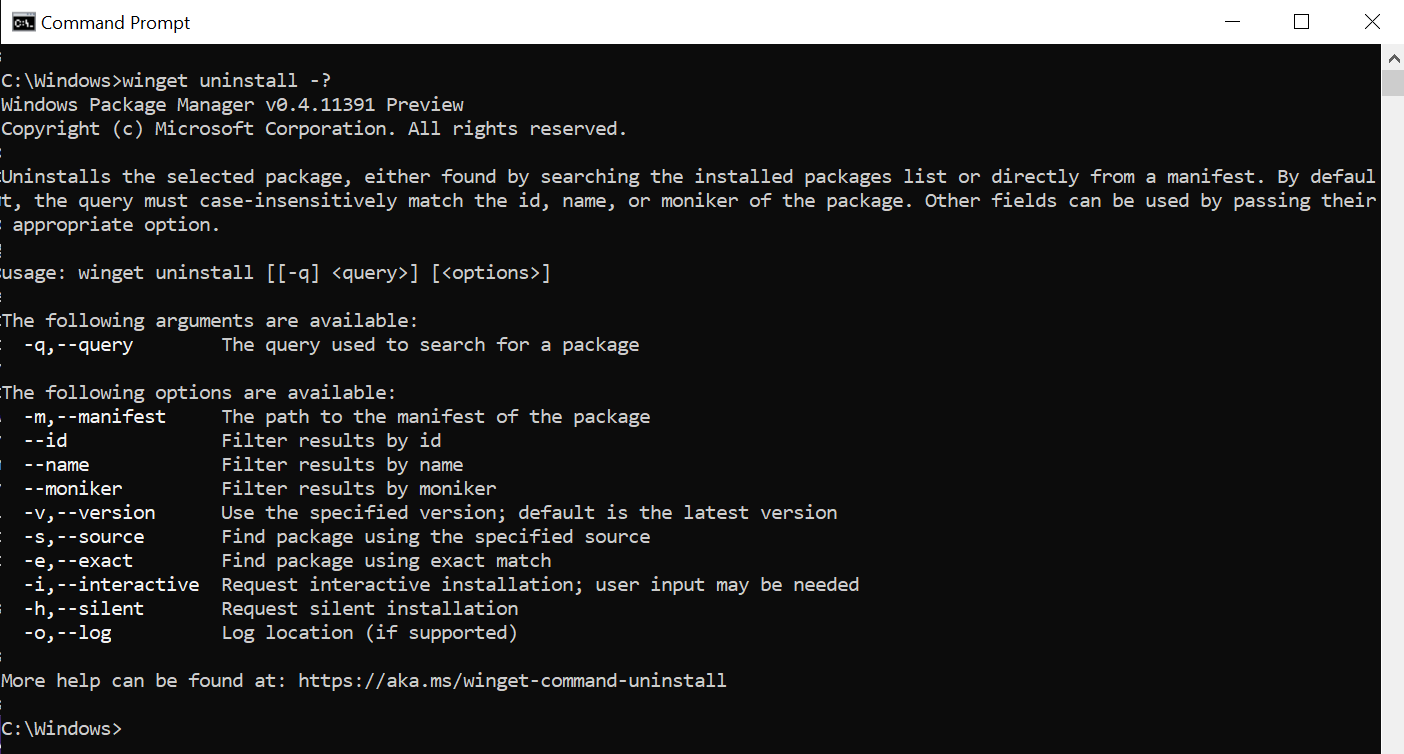
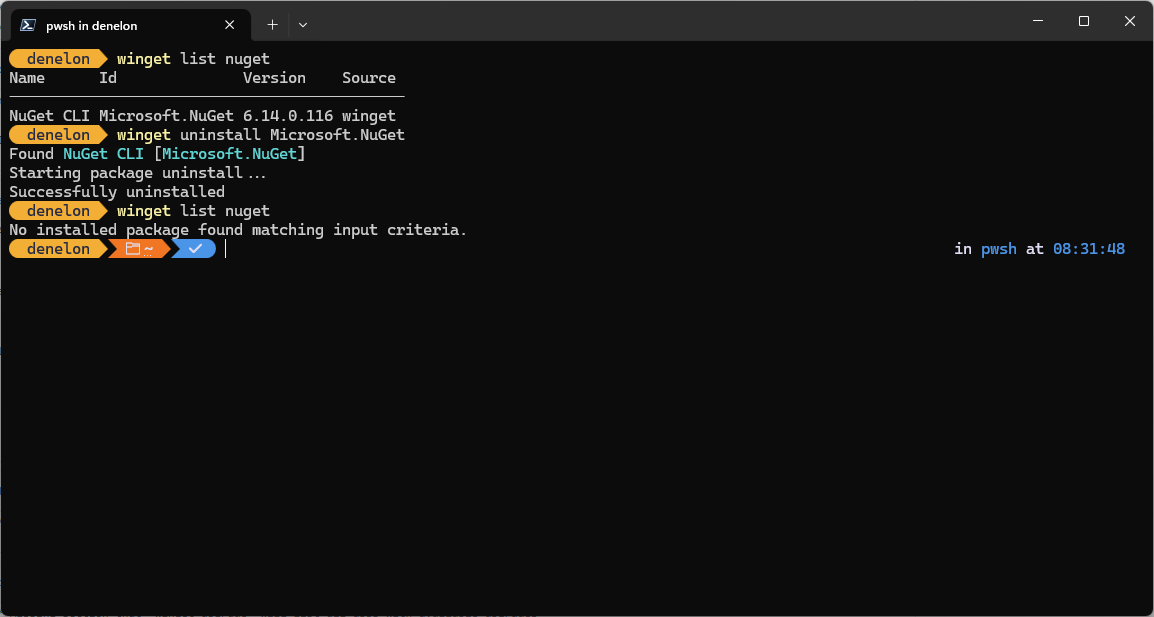
Update Uninstall (#5556)
* Update Uninstall

* Update screenshot format and minor editorial

---------

Changed region(s): [[0.0, 0.0, 1.0, 1.0], [0.0, 0.893, 0.5303, 0.9238]]

diff --git a/hub/package-manager/winget/uninstall.md b/hub/package-manager/winget/uninstall.md
@@ -1,16 +1,15 @@
 ---
 title: uninstall Command
 description: uninstalls the specified application.
-ms.date: 07/11/2024
+ms.date: 07/07/2025
 ms.topic: overview
-ms.localizationpriority: medium
 ---
 
 # uninstall command (winget)
 
-The **uninstall** command of the [winget](index.md) tool uninstalls the specified application.
+The **uninstall** command of [WinGet](index.md) uninstalls the specified application.
 
-The **uninstall** command requires that you specify the exact string to uninstall. If there is any ambiguity, you will be prompted to further filter the **uninstall** command to an exact application.
+The **uninstall** command requires that you specify the exact application name to uninstall. If there is any ambiguity, you will be prompted to further filter the **uninstall** command to an exact application.
 
 ## Aliases
 
@@ -23,10 +22,10 @@ The following aliases are available for this command:
 
 `winget uninstall [[-q] <query>] [<options>]`
 
-![Image of uninstall command usage](./images/uninstall.png)
+:::image type="content" source="./images/uninstall.png" alt-text="Screenshot of entering the winget uninstall command in a command line of Windows Terminal." lightbox="./images/uninstall.png":::
 
 > [!NOTE]
-> When using WinGet to uninstall a package, you may encounter a Microsoft Store agreement. This is due to the way in which WinGet queries package manifest sources. If you prefer not to have the Microsoft Store policy popup when uninstalling, you can pass in `--source winget` to suppress the agreement. Alternatively, you can uninstall using **Start  > Settings  > Apps > Apps & features**, finding the app you want to remove, and selecting **More  > Uninstall**.
+> When using WinGet to uninstall a package, you may encounter a Microsoft Store agreement. This happens because of how WinGet queries package sources. To avoid Microsoft Store agreement prompts when uninstalling, you can add the `--source winget` WinGet flag to the `winget uninstall` command. Alternatively, you can uninstall using **Start  > Settings  > Apps > Apps & features**, finding the app you want to remove, and selecting **More  > Uninstall**.
 
 ## Arguments
 
@@ -74,9 +73,7 @@ The options allow you to customize the uninstall experience to meet your needs.
 | **--proxy** | Set a proxy to use for this execution. |
 | **--no-proxy** | Disable the use of proxy for this execution. |
 
-After you have successfully identified the application intended to uninstall, winget will execute the uninstall command. In the example below, the **name** 'orca' and the **id** was passed in.
-
-![Image of uninstall command example](./images/uninstall-execute.png)
+After you have successfully identified the application intended to uninstall, winget will execute the uninstall command.
 
 ### Example queries
 
@@ -92,16 +89,16 @@ The following example uninstalls an application using its ID.
 winget uninstall --id "{24559D0F-481C-F3BE-8DD0-D908923A38F8}"
 ```
 
+The following example uninstalls multiple applications.
+
+```CMD
+winget uninstall Microsoft.NuGet Microsoft.Edit
+```
+
 ## Multiple selections
 
-If the query provided to **winget** does not result in a single application to uninstall, then **winget** will display multiple results. You can then use additional filters to refine the search for a correct application.
-
-![Image of uninstall command multiple selections](./images/uninstall-multiple.png)
+If the query provided to **winget** does not result in a single application to uninstall, then **winget** will display multiple results. You can then use additional filters to refine the search for the application you want to uninstall.
 
 ## Uninstalling apps not installed with Windows Package Manager
 
-As mentioned in [**list**](.\list.md), the **winget list** command will display more than just apps installed with the **winget**. Therefore you can use these commands to quickly and easily remove apps from your PC.
-
-In this example, **list** was used to find the application, and then the **id** was passed in as part of uninstall.
-
-![Image of uninstall command for apps not installed with Package Manager](./images/uninstall-with-list.png)
+As mentioned in [**list**](.\list.md), the **winget list** command will display more than just apps installed with the **winget**. You may still use winget commands to remove these apps from your device.